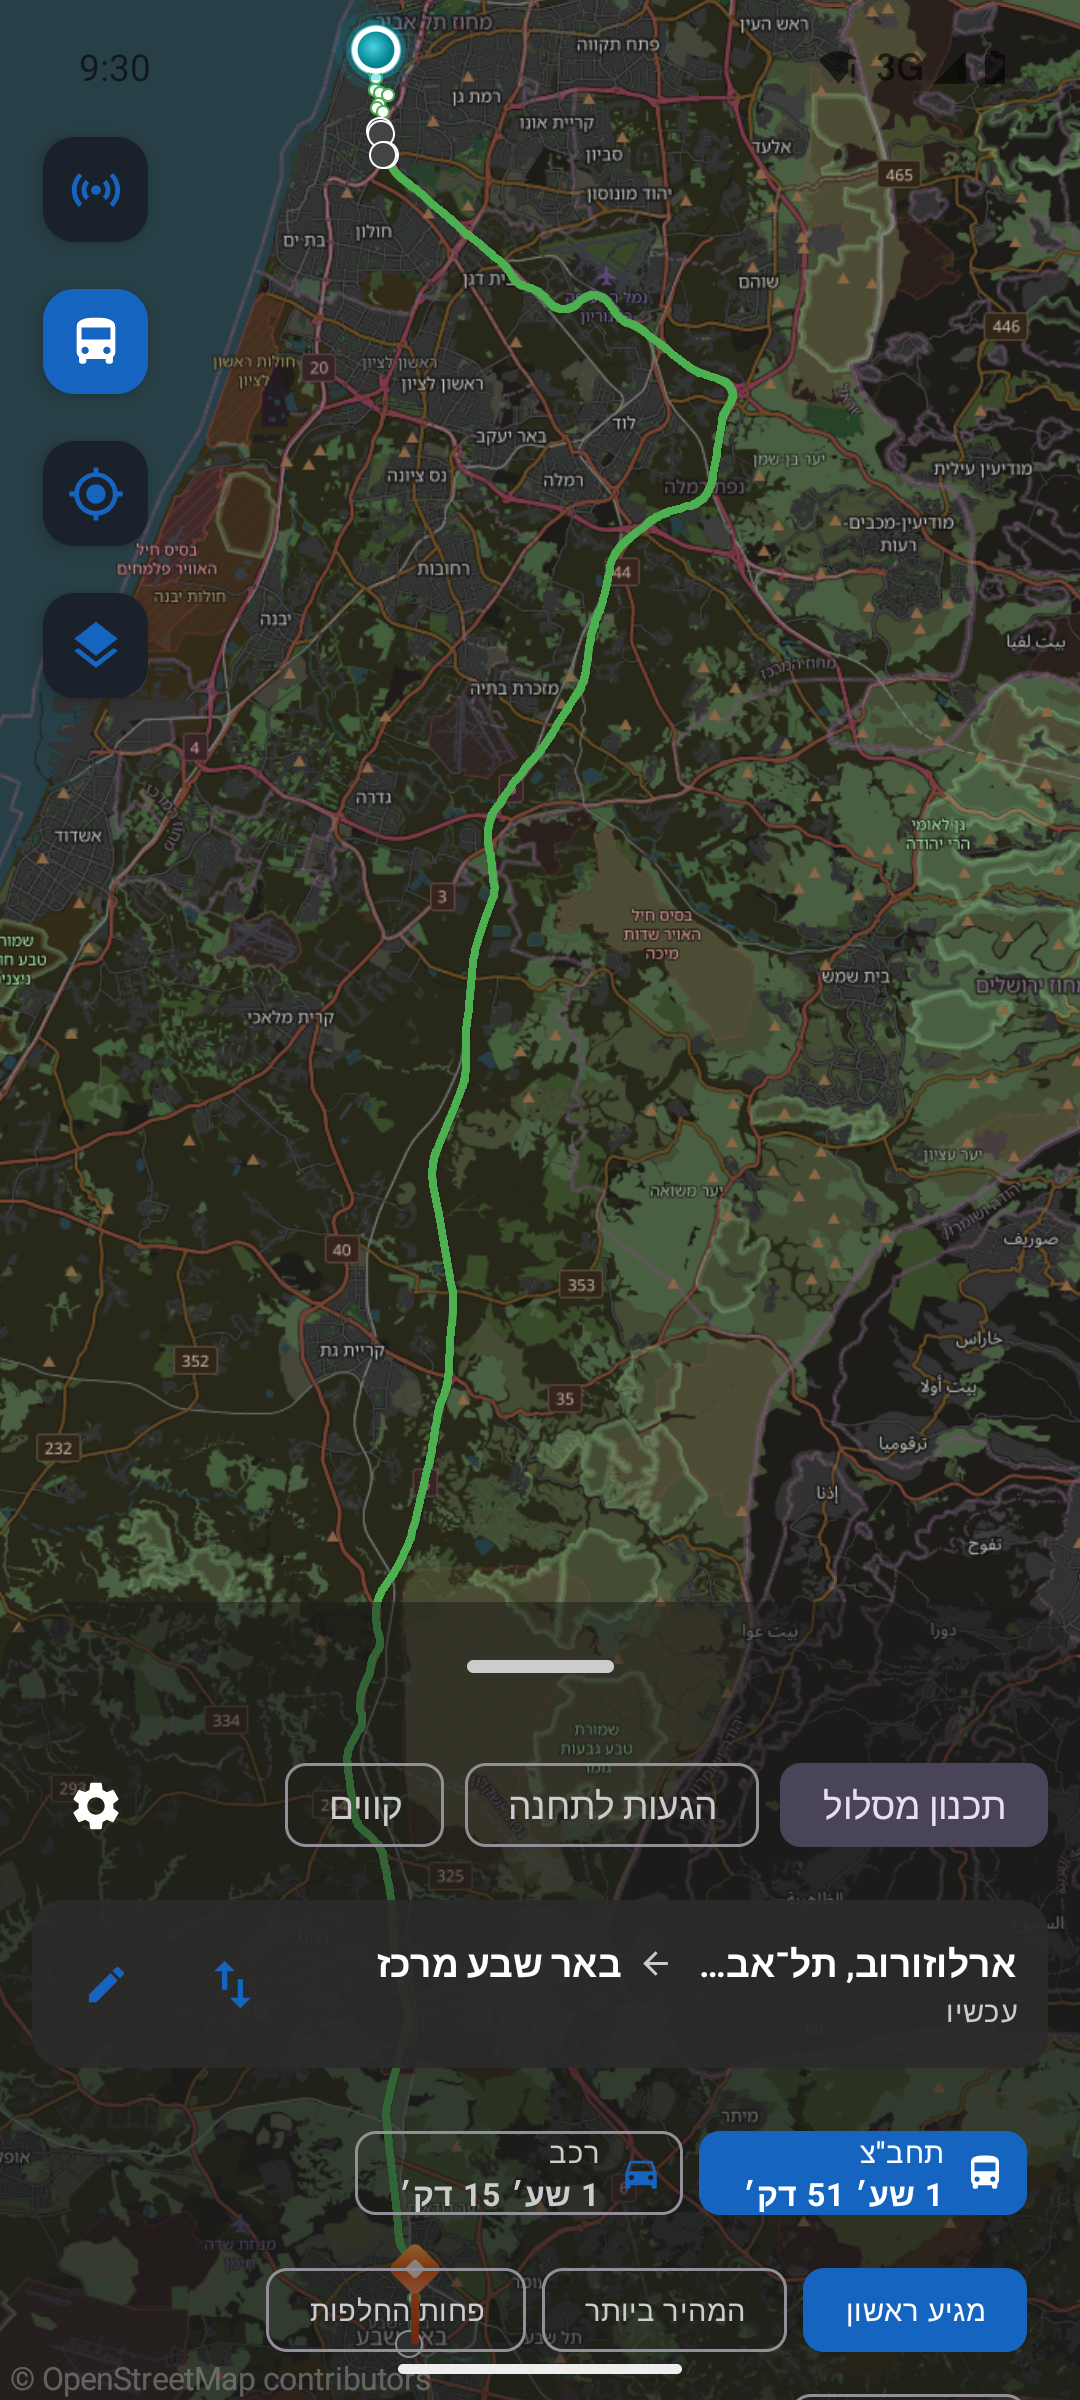
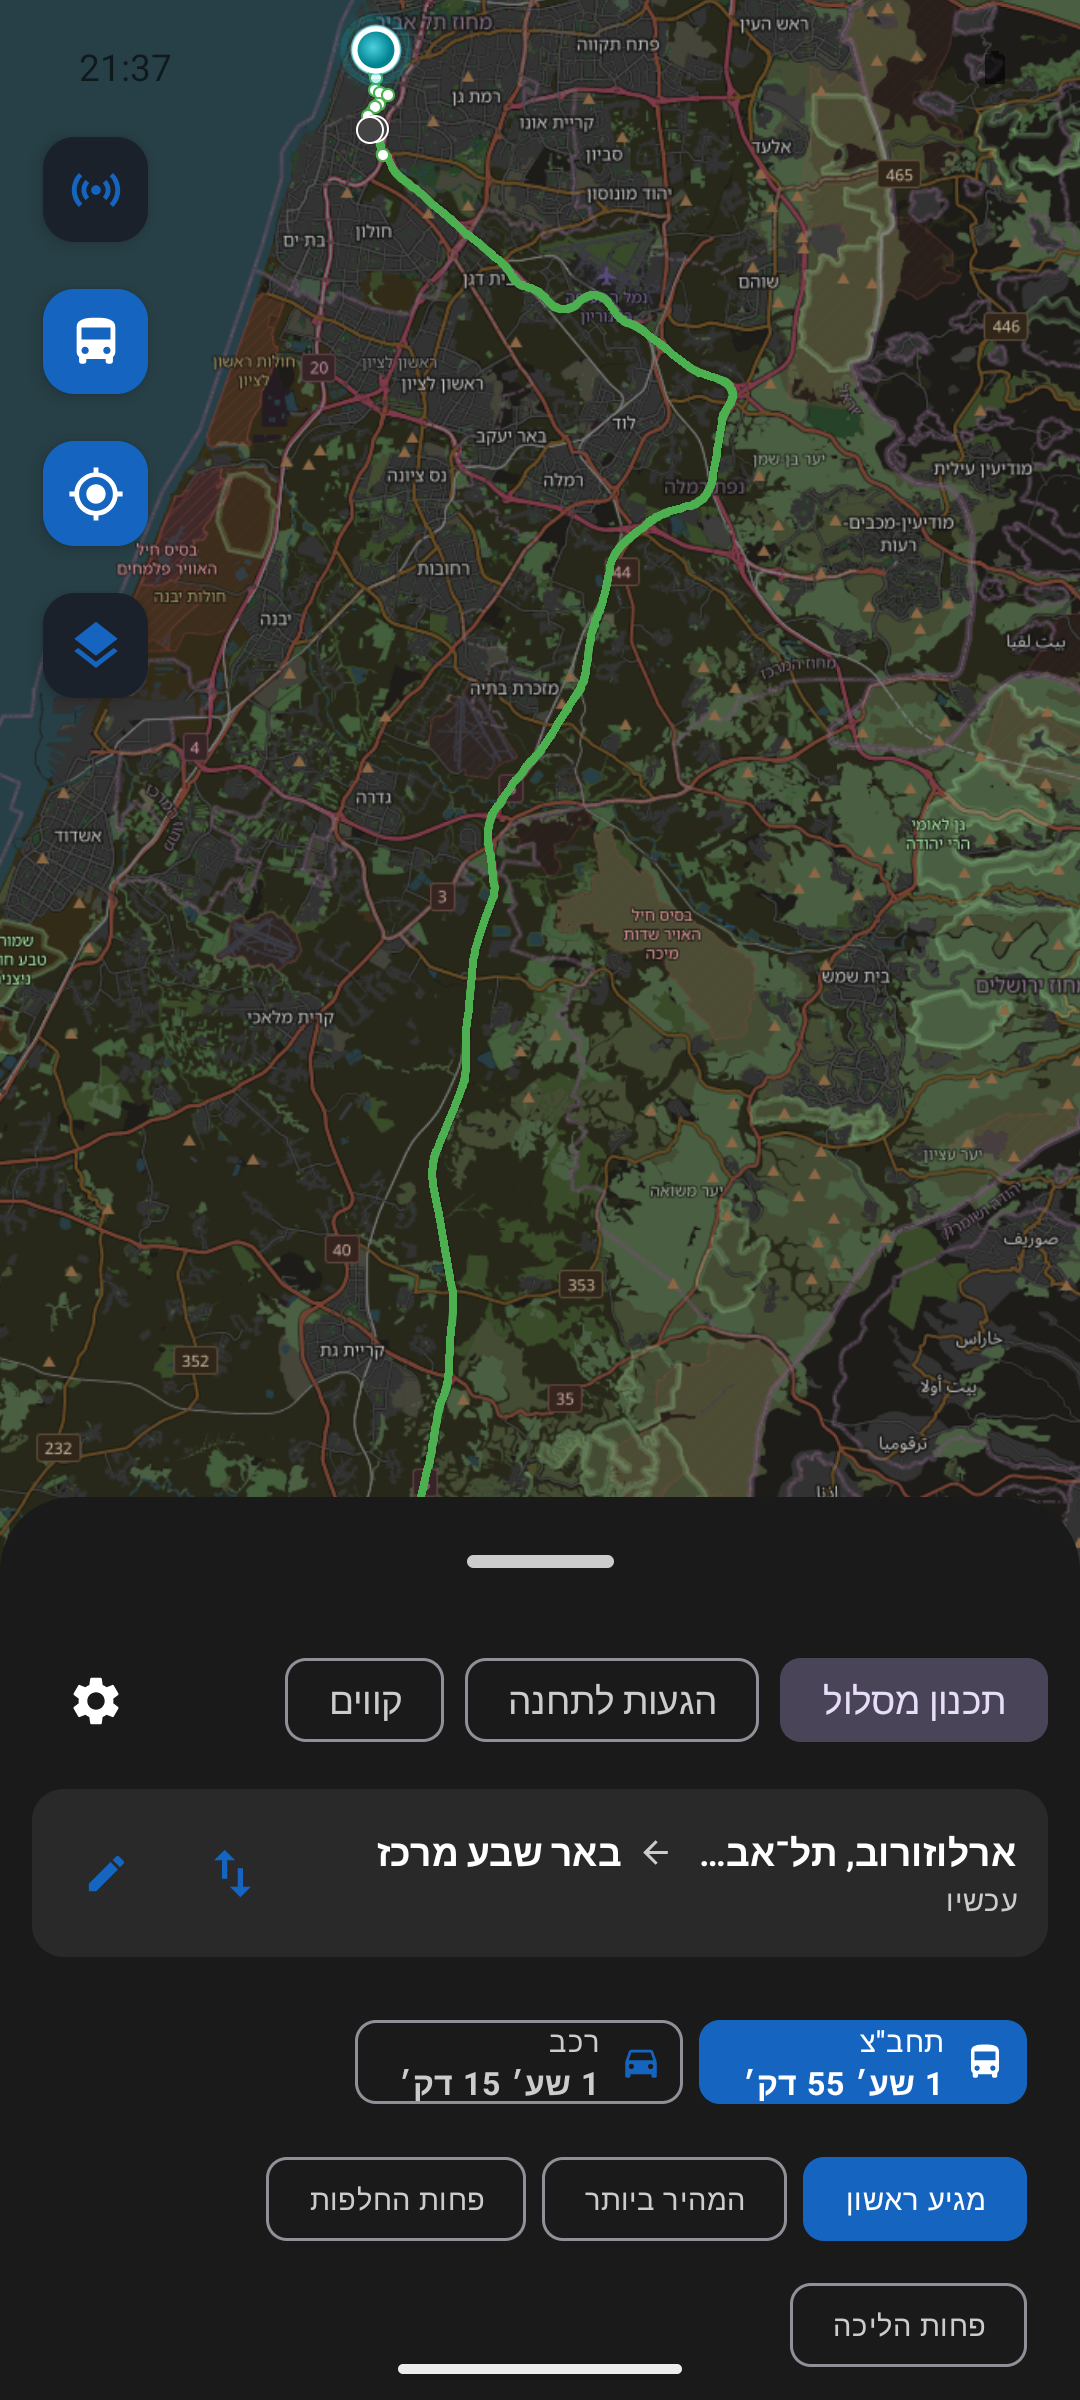
store: 8 Play screenshots, shot on Android 16 from the fixed build
Replaces the earlier set, which was captured before the edge-to-edge fix
and showed the destination field and the stop chips cut by the navigation
bar — the app's shop window advertising its own layout bug.

Shot on an API 36 emulator at 1080x2400 from 4a846e40 (includes the fix in
3f858fa6), release-flavour rendering with the feedback widgets suppressed,
Hebrew UI, real live service data at 21:29-21:40. The status bar carries
clock and battery only: this emulator's Wi-Fi glyph wears a permanent 'no
internet' badge that demo mode cannot clear, and a no-internet warning on
an app that sells live data is worse than a bare bar.

The demo clock is set to real wall-clock time before each shot rather than
a fixed 12:00, so no frame shows a status bar contradicting its own
itineraries.

Known and filed, visible in 02/03/04/07/08: the status-bar clock is dim
over the app's dark surfaces (pt #268).

diff --git a/store/screenshots/README.md b/store/screenshots/README.md
@@ -1,0 +1,117 @@
+# Google Play store screenshots — publicTransportation
+
+8 portrait screenshots, 1080×2400 (Pixel 7 class), Hebrew UI, real live Israeli
+transit data. Captured 2026-09-24 between 21:29 and 21:40 IDT, so every countdown,
+departure time and vehicle position in them is genuine SIRI / GTFS data, not a mock.
+
+**Shot on Android 16 (API 36), from `main` at `4a846e40`** — which contains the
+edge-to-edge fix `3f858fa6`, so no control sits under the navigation bar in any of
+these frames. (`4a846e40` was HEAD at capture time; it adds two map/tracking commits
+on top of the fix.)
+
+## How they were made (to reproduce)
+
+- **AVD**: `phone_demo_36` — Pixel 7, **Android 16 / API 36**,
+  `system-images;android-36;google_apis_playstore;x86_64`, 1080×2400 @ 420 dpi,
+  run headless on the *desktop* peer:
+  `emulator -avd phone_demo_36 -no-window -gpu swiftshader_indirect -port 5562`.
+- **Build**: `./gradlew :app:assembleDevRelease -PdemoRecording=true` — `demoRecording`
+  sets `FEEDBACK_ENABLED=false`, so the feedback-lib bug icon and chat button are
+  absent from every frame. It also flips the public fallback server to
+  `https://pt.prod.ya-niv.com` (see `PTApp.kt`), so the build is not gated by dev-auth.
+- **Backend**: the desktop dev server on `:3003`, reached from the emulator via
+  `adb reverse tcp:3003 tcp:3003` (the app's first server candidate is the USB tunnel).
+- **Locale**: `adb shell cmd locale set-app-locales com.automatelinux.pt.dev --locales he-IL`
+  (per-app; no root needed on a Play image). Note this is **lost on uninstall** — re-apply
+  it after any reinstall or the app comes up in English.
+- **Location**: `adb emu geo fix 34.7818 32.0853` (Tel Aviv). Apply it *before* launching,
+  and if the origin field still shows a Californian default, tap the crosshair inside the
+  מוצא field to re-resolve it.
+- **Status bar**: SystemUI demo mode — notifications hidden, battery 100 and not charging,
+  device switched to 24-hour time (`settings put system time_12_24 24`), and the demo
+  clock **set to the real wall-clock time before each capture**, so it never contradicts
+  the times the app is showing. Wi-Fi and mobile are both hidden: the emulator's Wi-Fi
+  icon carries a permanent "no internet" (`!`) badge that demo mode cannot clear, and a
+  "no internet" warning on a live-data app reads badly. Every shot therefore has clock +
+  battery only. `-e datatype lte` renders as a dated **3G** glyph on this image, so mobile
+  is not worth showing either.
+- **Panel opacity**: both values set to **1.0**. The sliders (gear → הגדרות שקיפות)
+  cannot be driven reliably over `adb`, so the values were written straight into the
+  app's preferences using a debuggable build:
+  ```
+  ./gradlew :app:assembleDevDebug -PdemoRecording=true      # same flags, debuggable
+  adb shell run-as com.automatelinux.pt.dev cat shared_prefs/pt_settings.xml
+  # add: <float name="sheet_opacity" value="1.0" /> and <float name="card_opacity" value="1.0" />
+  ```
+  with the app force-stopped, then relaunch. At the shipped defaults (50% sheet /
+  60% cards) the panels are translucent and map detail shows through the text.
+
+---
+
+## The files
+
+### `01-route-on-map.png`
+The planned journey drawn end to end on the map — Tel Aviv (ארלוזורוב) to
+Be'er Sheva (באר שבע מרכז) — with the route summary, the public-transport vs. car
+comparison (1:55 vs 1:15) and the sort chips beneath it.
+> **מסלול שלם מתל אביב לבאר שבע — על המפה, עם כל תחנה בדרך.**
+
+### `02-route-options.png`
+The results list: five ways to make the same trip, each with duration, arrival
+window, number of transfers, fare, the line numbers you'd ride, and a live
+countdown to the next departure. Sort chips for מגיע ראשון / המהיר ביותר /
+פחות החלפות / פחות הליכה.
+> **כל האפשרויות במבט אחד — כמה זמן, כמה החלפות, כמה זה עולה.**
+
+### `03-itinerary-detail.png`
+One journey, step by step: walk 82 m, board line 289 at 21:45, ride 14 min for
+₪8, walk 667 m, wait 10, board line 370 at the Tel Aviv central station, arrive
+Be'er Sheva 23:40. Each leg carries a "follow this bus" and "remind me before it
+leaves" action, plus accessibility and fare badges.
+> **צעד אחר צעד: לאן ללכת, על מה לעלות, מתי לרדת — וכמה זה עולה.**
+
+### `04-live-arrivals.png`
+Live arrivals at a stop (אבן גבירול/ארלוזורוב): the next bus in large type with
+its destination, then the upcoming departures, filterable by line, each tagged
+בזמן אמת (real-time) or מתוכנן (scheduled). Also offers a home-screen widget for
+this stop.
+> **מה מגיע לתחנה שלך עכשיו — בזמן אמת, לא לפי הלוח.**
+
+### `05-lines-browser.png`
+The line browser: search a line number or pick a popular one, and the full route
+is drawn on the map — both directions at once, with every stop.
+> **כל קו בארץ, כל התחנות, שני הכיוונים — על המפה.**
+
+### `06-which-bus-am-i-on.png`
+"באיזה אוטובוס אתה?" — the app lists the lines actually passing your location
+right now, in your direction, each with the stop you'd have boarded at. Pick one
+and it plans the rest of the trip from the moving bus.
+> **כבר באוטובוס? בחר את הקו ונתכנן את ההמשך מאיפה שאתה.**
+
+### `07-departure-board.png`
+A full-screen departure board for the stop — airport style, with a live ticking
+clock, line colours, destinations and minutes-to-arrival. Built to be left open
+on a screen.
+> **לוח יציאות מלא לתחנה — כמו בשדה תעופה, מתעדכן כל הזמן.**
+
+### `08-live-bus-tracking.png`
+Following a single vehicle: line 289 towards יסוד המעלה/לוינסקי, 7 minutes out,
+1.8 km away, its position updated seconds ago, wheelchair accessible, with its
+line and remaining stops drawn on the map.
+> **עוקבים אחרי האוטובוס עצמו — איפה הוא נמצא ובעוד כמה דקות הוא אצלך.**
+
+---
+
+## Suggested Play ordering
+
+`01` → `02` → `04` → `03` → `07` → `06` → `08` → `05`.
+The first three carry the core promise (plan a trip, compare options, know when
+the bus really comes); the rest are differentiators.
+
+## Known issue visible in these images
+
+The **status bar clock is very dim** on `02`, `03`, `04`, `07` and `08`. That is the
+open status-bar-appearance defect, not a capture problem: the app calls
+`enableEdgeToEdge()` without ever setting `isAppearanceLightStatusBars`, so the system
+keeps drawing dark icons over the app's dark surfaces (measured contrast as low as
+4/255). Fixing it would make the clock and battery legible in these same frames.
